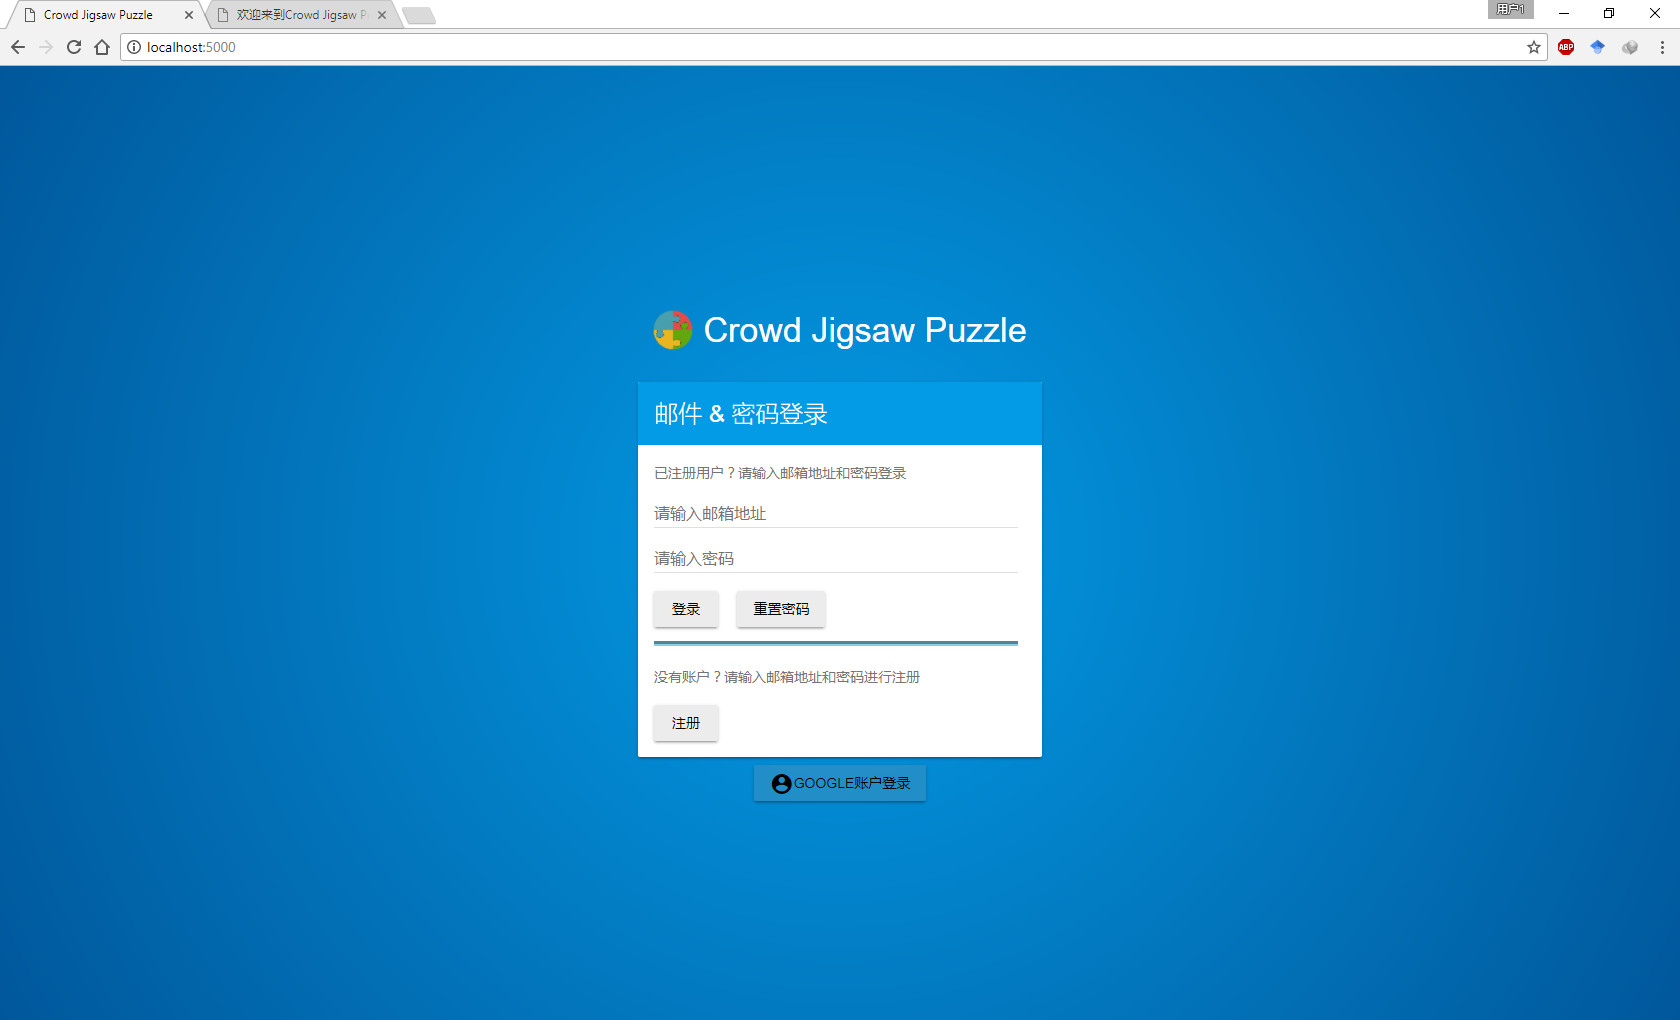
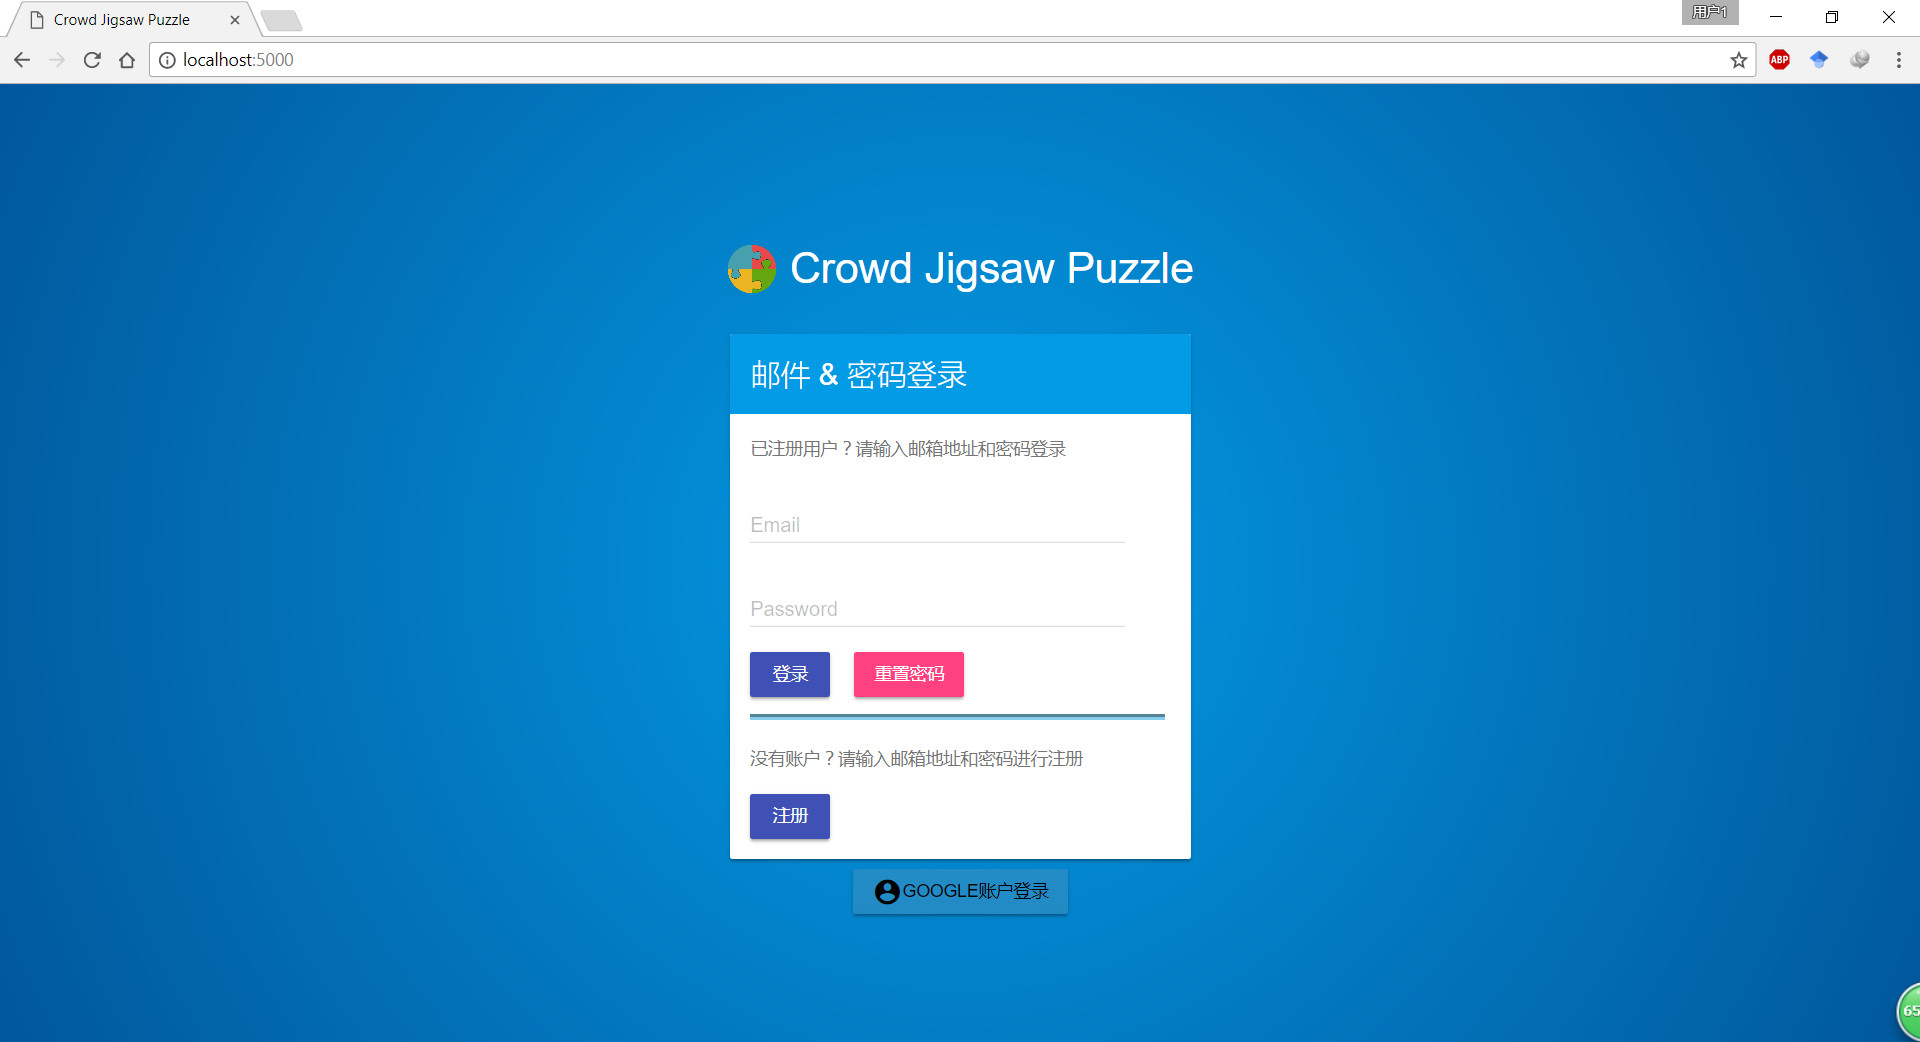
[Dev v0.7.2] Add updateLink function and recommendTiles function(incomplete); Prettify the sign in page.

Changed region(s): [[0.3714, 0.2127, 0.619, 0.8814], [0.0, 0.0, 1.0, 0.0912], [0.9905, 0.9422, 1.0, 1.0]]

diff --git a/scripts/main.js b/scripts/main.js
@@ -10,7 +10,7 @@ const userName = document.querySelector('#user-name');
 
 
 var listeningFirebaseRefs = [];
-var currentUID;
+var currentUID; // firebase.auth().currentUser.uid;
 var currentUName;
 /**
  * click the user charm and show the user profile
@@ -73,13 +73,13 @@ function writeUserData(userId, name, email, imageUrl) {
 function initDatabase(tilesNum){
     for(let i = 0;i < tilesNum;i++){
         firebase.database().ref('links/' + i).set({
-            self : i
+            source : i
         });
     }
 }
 
 /**
- *  Every release and combine update one link in the database
+ *  Triggered by every release and combine(i.e. one step)
  *  When one link is created by one user: 
  *  1, If the link does not exist, update the tile list of the selected tile and the combined tile;
  *  2, If the link already exists, push(append) the user to the supporter list(child) of the selected tile;
@@ -91,16 +91,75 @@ function initDatabase(tilesNum){
  */
 function updateLink(sourceTileIndex, targetTileIndex){
     // Update the link bidirectionally
-    let sourceRef=firebase.database().ref('links/' + sourceTileIndex + '/' + targetTileIndex);
-    let targetRef=firebase.database().ref('links/' + targetTileIndex + '/' + sourceTileIndex);
-    
-    sourceRef.push({
-        supporter : currentUName
+    let sourceRef=firebase.database().ref('links/' + sourceTileIndex);
+    let targetRef=firebase.database().ref('links/' + targetTileIndex);
+    let sourceIndexString = sourceTileIndex.toString();
+    let targetIndexString = targetTileIndex.toString();
+
+    sourceRef.once('value', snapshot=>{
+        if(!snapshot.hasChild(targetIndexString)){
+            // the source-target does not exist       
+            sourceRef.child(targetIndexString).set({
+                target : targetTileIndex,
+                supNum : 1,
+                supporters : {
+                    [currentUName] : true
+                }
+            });
+        }else{
+            // the source-target link already exists
+            // and the user did not support it before
+            if(snapshot.child(targetIndexString).val().supporters[currentUName]!= true){
+                let newSupNum = snapshot.child(targetIndexString).val().supNum +1;
+                let updateLink = {};
+                updateLink['supNum'] = newSupNum;
+                updateLink['supporters/'+ currentUName] = true;
+                sourceRef.child(targetIndexString).update(updateLink);
+            }
+        }
     });
-    
-    targetRef.push({
-        supporter : currentUName
+    targetRef.once('value', snapshot=>{
+        if(!snapshot.hasChild(sourceIndexString)){
+            // the source-target does not exist       
+            sourceRef.child(sourceIndexString).set({
+                target : sourceTileIndex,
+                supNum : 1,
+                supporters : {
+                    [currentUName] : true
+                }
+            });
+        }else{
+            // the source-target link already exists
+            // and the user did not support it before
+            if(snapshot.child(sourceIndexString).val().supporters[currentUName]!= true){
+                let newSupNum = snapshot.child(sourceIndexString).val().supNum +1;
+                let updateLink = {};
+                updateLink['supNum'] = newSupNum;
+                updateLink['supporters/'+ currentUName] = true;
+                sourceRef.child(sourceIndexString).update(updateLink);
+            }
+        }
     });
+}
+
+/**
+ * Recommend 1~4 tiles for the current user
+ * @param {*} selectedTileIndex 
+ * @param {*} n 
+ */
+function recommendTiles(selectedTileIndex, n){
+     let topTilesRef=firebase.database().ref('links/' + selectedTileIndex).orderByChild('supNum');// ascending order     
+    //  let topNTilesRef=topTilesRef.limitToLast(n);
+     let topNIndex=new Array();
+     topTilesRef.once('value').then(snapshot=>{
+         snapshot.forEach(childSnapshot=>{
+             if(!(isNaN(childSnapshot.key))){
+               topNIndex.push(childSnapshot.key);
+             }
+         });
+        // console.log(topNIndex); // has value
+     });
+     return topNIndex;
 }
 
 /**
@@ -115,7 +174,7 @@ function onAuthStateChanged(user) {
     if (user) {
         // user is signed in
         currentUID = user.uid;
-        currentUName = user.displayName || user.email ;
+        currentUName = user.displayName || ( user.email.toString().split('.')[0] ) ;
         splashPage.style.display = 'none';
         writeUserData(user.uid, user.displayName, user.email, user.photoURL);
         userName.textContent = user.displayName || user.email;

diff --git a/index.html b/index.html
@@ -27,26 +27,29 @@
         <!-- Header section containing title -->
         <section id="page-splash">
             <h3 class="logo mdl-color-text--white">Crowd Jigsaw Puzzle</h3>
-                     <div class="mdl-card mdl-shadow--2dp mdl-cell mdl-cell--3-col mdl-cell--3-col-tablet mdl-cell--3-col-desktop">
-                    <div class="mdl-card__title mdl-color--light-blue-600 mdl-color-text--white">
-                        <h2 class="mdl-card__title-text">邮件 &amp; 密码登录</h2>
+            <div class="mdl-card mdl-shadow--2dp mdl-cell mdl-cell--3-col mdl-cell--3-col-tablet mdl-cell--3-col-desktop">
+                <div class="mdl-card__title mdl-color--light-blue-600 mdl-color-text--white">
+                    <h2 class="mdl-card__title-text">邮件 &amp; 密码登录</h2>
+                </div>
+                <div class="mdl-card__supporting-text mdl-color-text--grey-600">
+                    <p>已注册用户？请输入邮箱地址和密码登录</p>
+                    <div class="mdl-textfield mdl-js-textfield mdl-textfield--floating-label">
+                        <input class="mdl-textfield__input mdl-cell--middle" type="text" id="email">
+                        <label class="mdl-textfield__label" for="email">Email</label>
                     </div>
-                    <div class="mdl-card__supporting-text mdl-color-text--grey-600">
-                        <p>已注册用户？请输入邮箱地址和密码登录</p>
-                        <input class="mdl-textfield__input mdl-cell--middle" type="text" id="email" name="email" placeholder="请输入邮箱地址" />
-                        <br/>
-                        <input class="mdl-textfield__input mdl-cell--middle" type="password" id="password" name="password" placeholder="请输入密码" />
-                        <br/>
-                        <button class="mdl-button mdl-js-button mdl-button--raised" style="margin:0 auto;" id="sign-in-email" name="sign_in">登录</button>
-                        &nbsp;&nbsp;&nbsp;
-                        <button class="mdl-button mdl-js-button mdl-button--raised" id="reset-password" name="reset_password">重置密码</button>
-                        <hr style="height:5px;border:none;border-top:5px groove skyblue;" />
-                        <div class="sign-up-container">
+                    <div class="mdl-textfield mdl-js-textfield mdl-textfield--floating-label">
+                        <input class="mdl-textfield__input mdl-cell--middle" type="password" id="password">
+                        <label class="mdl-textfield__label" for="password">Password</label>
+                    </div>
+                    <button class="mdl-button mdl-js-button mdl-button--raised mdl-button--colored" style="margin:0 auto;" id="sign-in-email" name="sign_in">登录</button>                    &nbsp;&nbsp;&nbsp;
+                    <button class="mdl-button mdl-js-button mdl-button--raised mdl-button--accent" id="reset-password" name="reset_password">重置密码</button>
+                    <hr style="height:5px;border:none;border-top:5px groove skyblue;" />
+                    <div class="sign-up-container">
                         <p>没有账户？请输入邮箱地址和密码进行注册</p>
-                        <button class="mdl-button mdl-js-button mdl-button--raised" id="sign-up-email" name="sign_up">注册</button>
-                        </div>
+                        <button class="mdl-button mdl-js-button mdl-button--raised mdl-button--colored" id="sign-up-email" name="sign_up">注册</button>
                     </div>
                 </div>
+            </div>
             <div>
                 <button id="sign-in-google" class="mdl-button--raised mdl-button mdl-js-button mdl-js-ripple-effect"><i class="material-icons">account_circle</i>Google账户登录</button>
             </div>

diff --git a/scripts/jigsaw.js b/scripts/jigsaw.js
@@ -173,10 +173,14 @@ function JigsawPuzzle(config) {
 
     // output some info about this puzzle
     console.log("Game started : "+ this.tileNum + " tiles(" + this.tilesPerRow + " rows * " + this.tilesPerColumn+ " cols)");
-
+      
     // initialize the database which keeps the links
     // initDatabase(this.tileNum);
-
+    // SIMULATION CODE
+    // updateLink(0, 1);
+    // updateLink(0, 2);
+    // updateLink(0, 3);
+          
     this.tileMarginWidth = this.tileWidth * 0.203125;
     this.selectedTile = undefined;
     this.selectedTileIndex = undefined;
@@ -425,7 +429,25 @@ function JigsawPuzzle(config) {
             console.log('Tile selected : ' + instance.selectedTileIndex);
             // console.log(instance.selectedTile.findex);
             instance.selectionGroup.position = pos;
-            // simulation:highlight 2 random tiles
+            
+            var topN = 2;         
+            var topNIndex = recommendTiles(0, topN);
+            console.log(topNIndex.toString());   //object         
+            console.log(topNIndex['1']);
+            // for(var i=0;i<topN;i++){
+            //     console.log(topNIndex[i.toString()]);
+            // }
+
+            // if(topNIndex.length > 0){
+                // for(var i in topNIndex){
+                //     console.log(i);
+                //     // console.log(topNIndex[i]);
+                // }
+            // }else{
+            //     console.log('No recommendation.');
+            // }
+
+            // SIMULATION :highlight 2 random tiles
             var r1 = parseInt(Math.random() * instance.tileNum, 10);
             var r2 = parseInt(Math.random() * instance.tileNum, 10);
             // console.log(r1);
